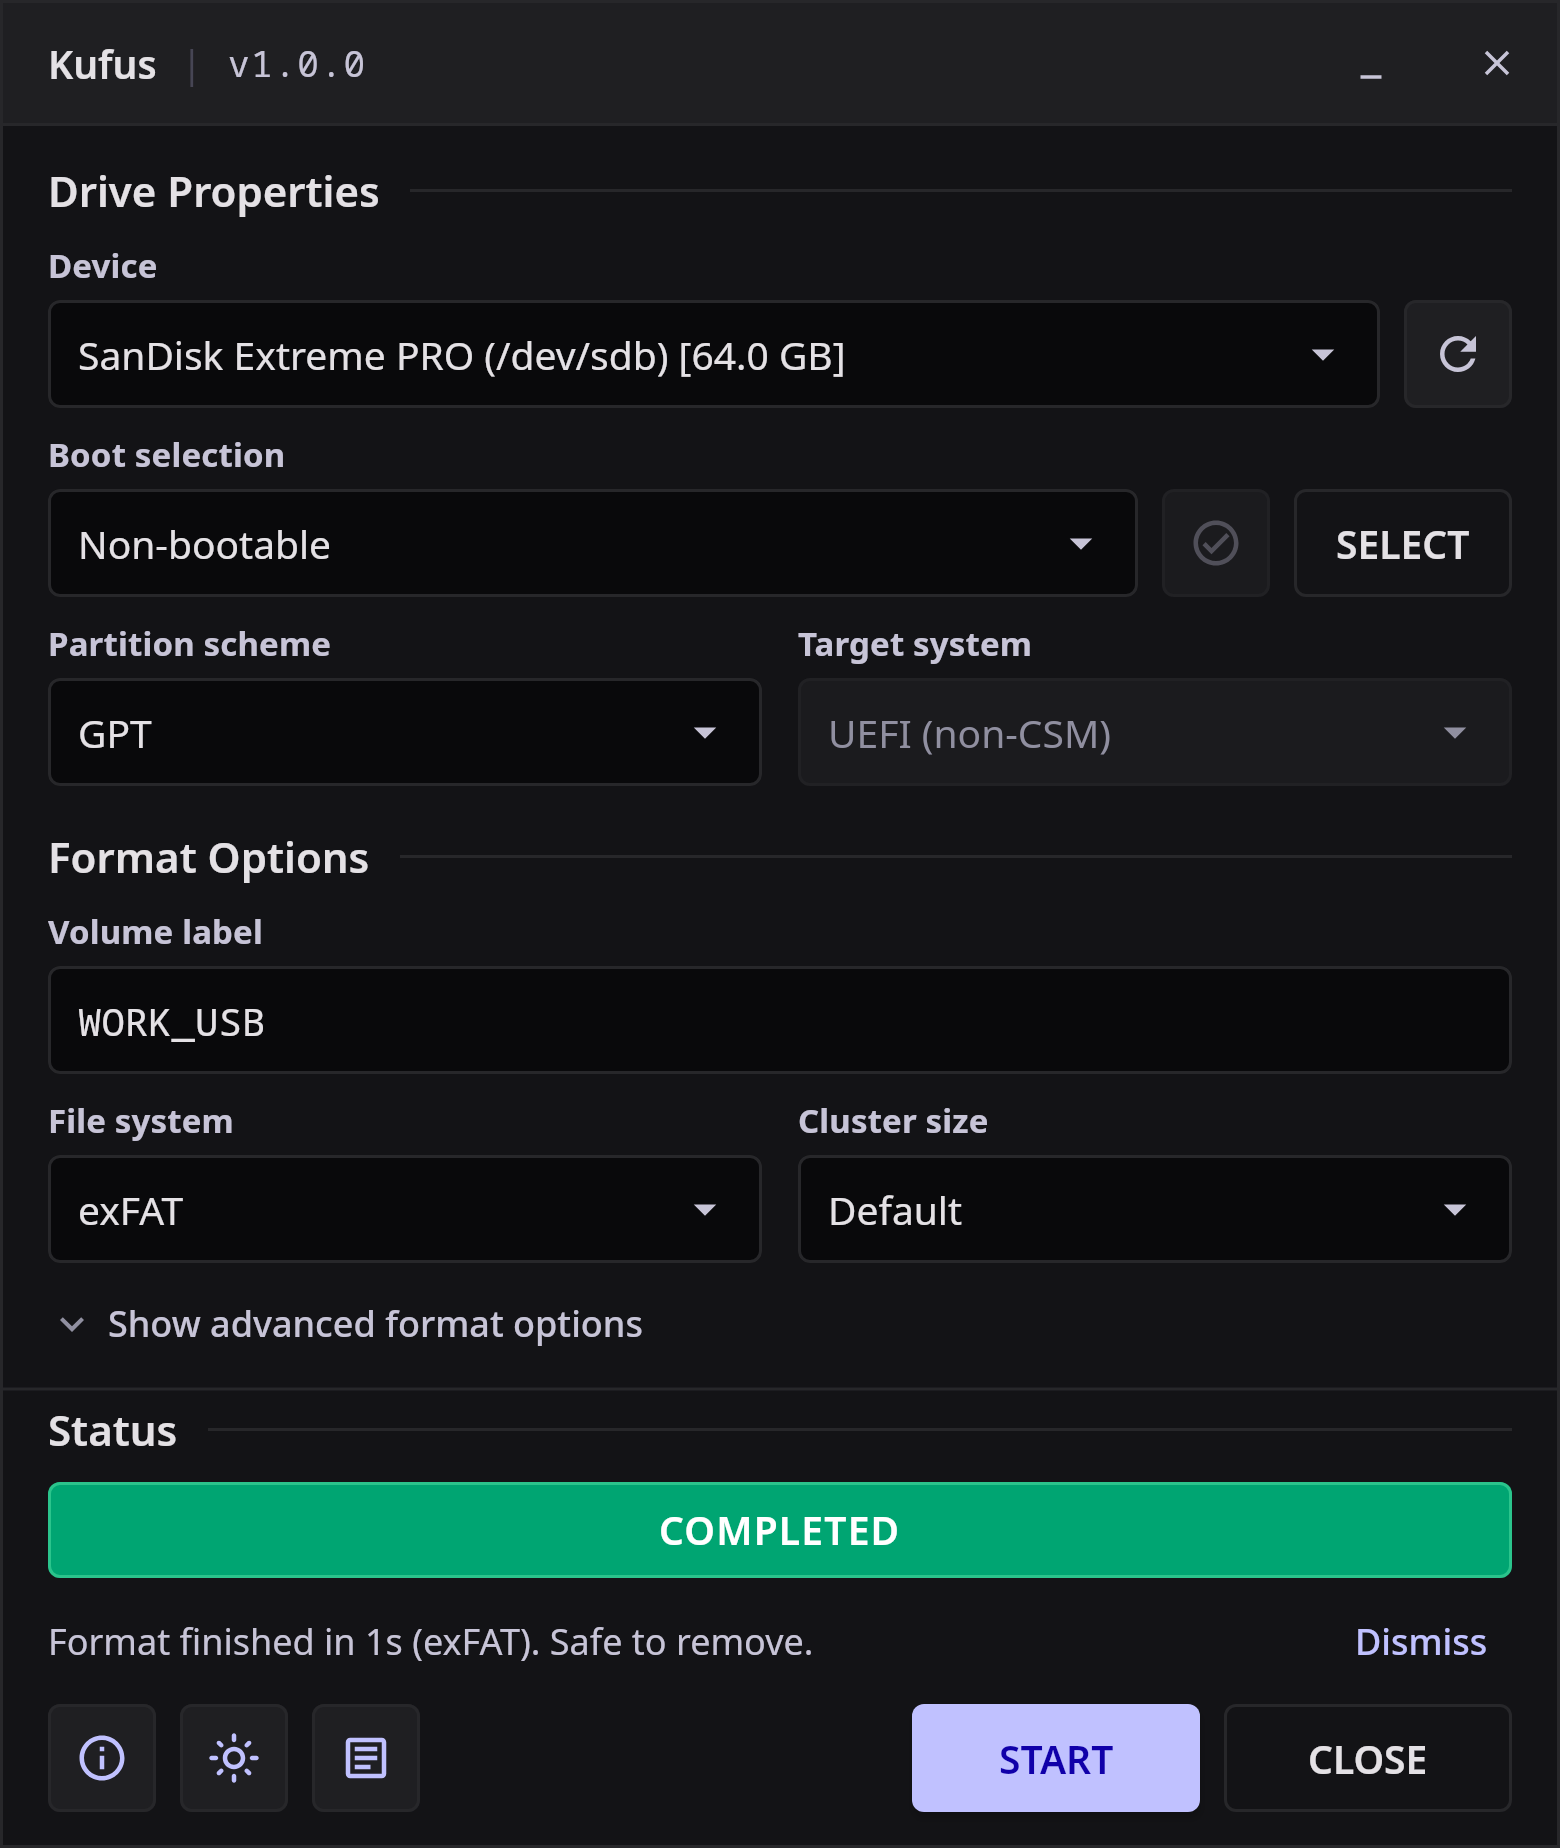
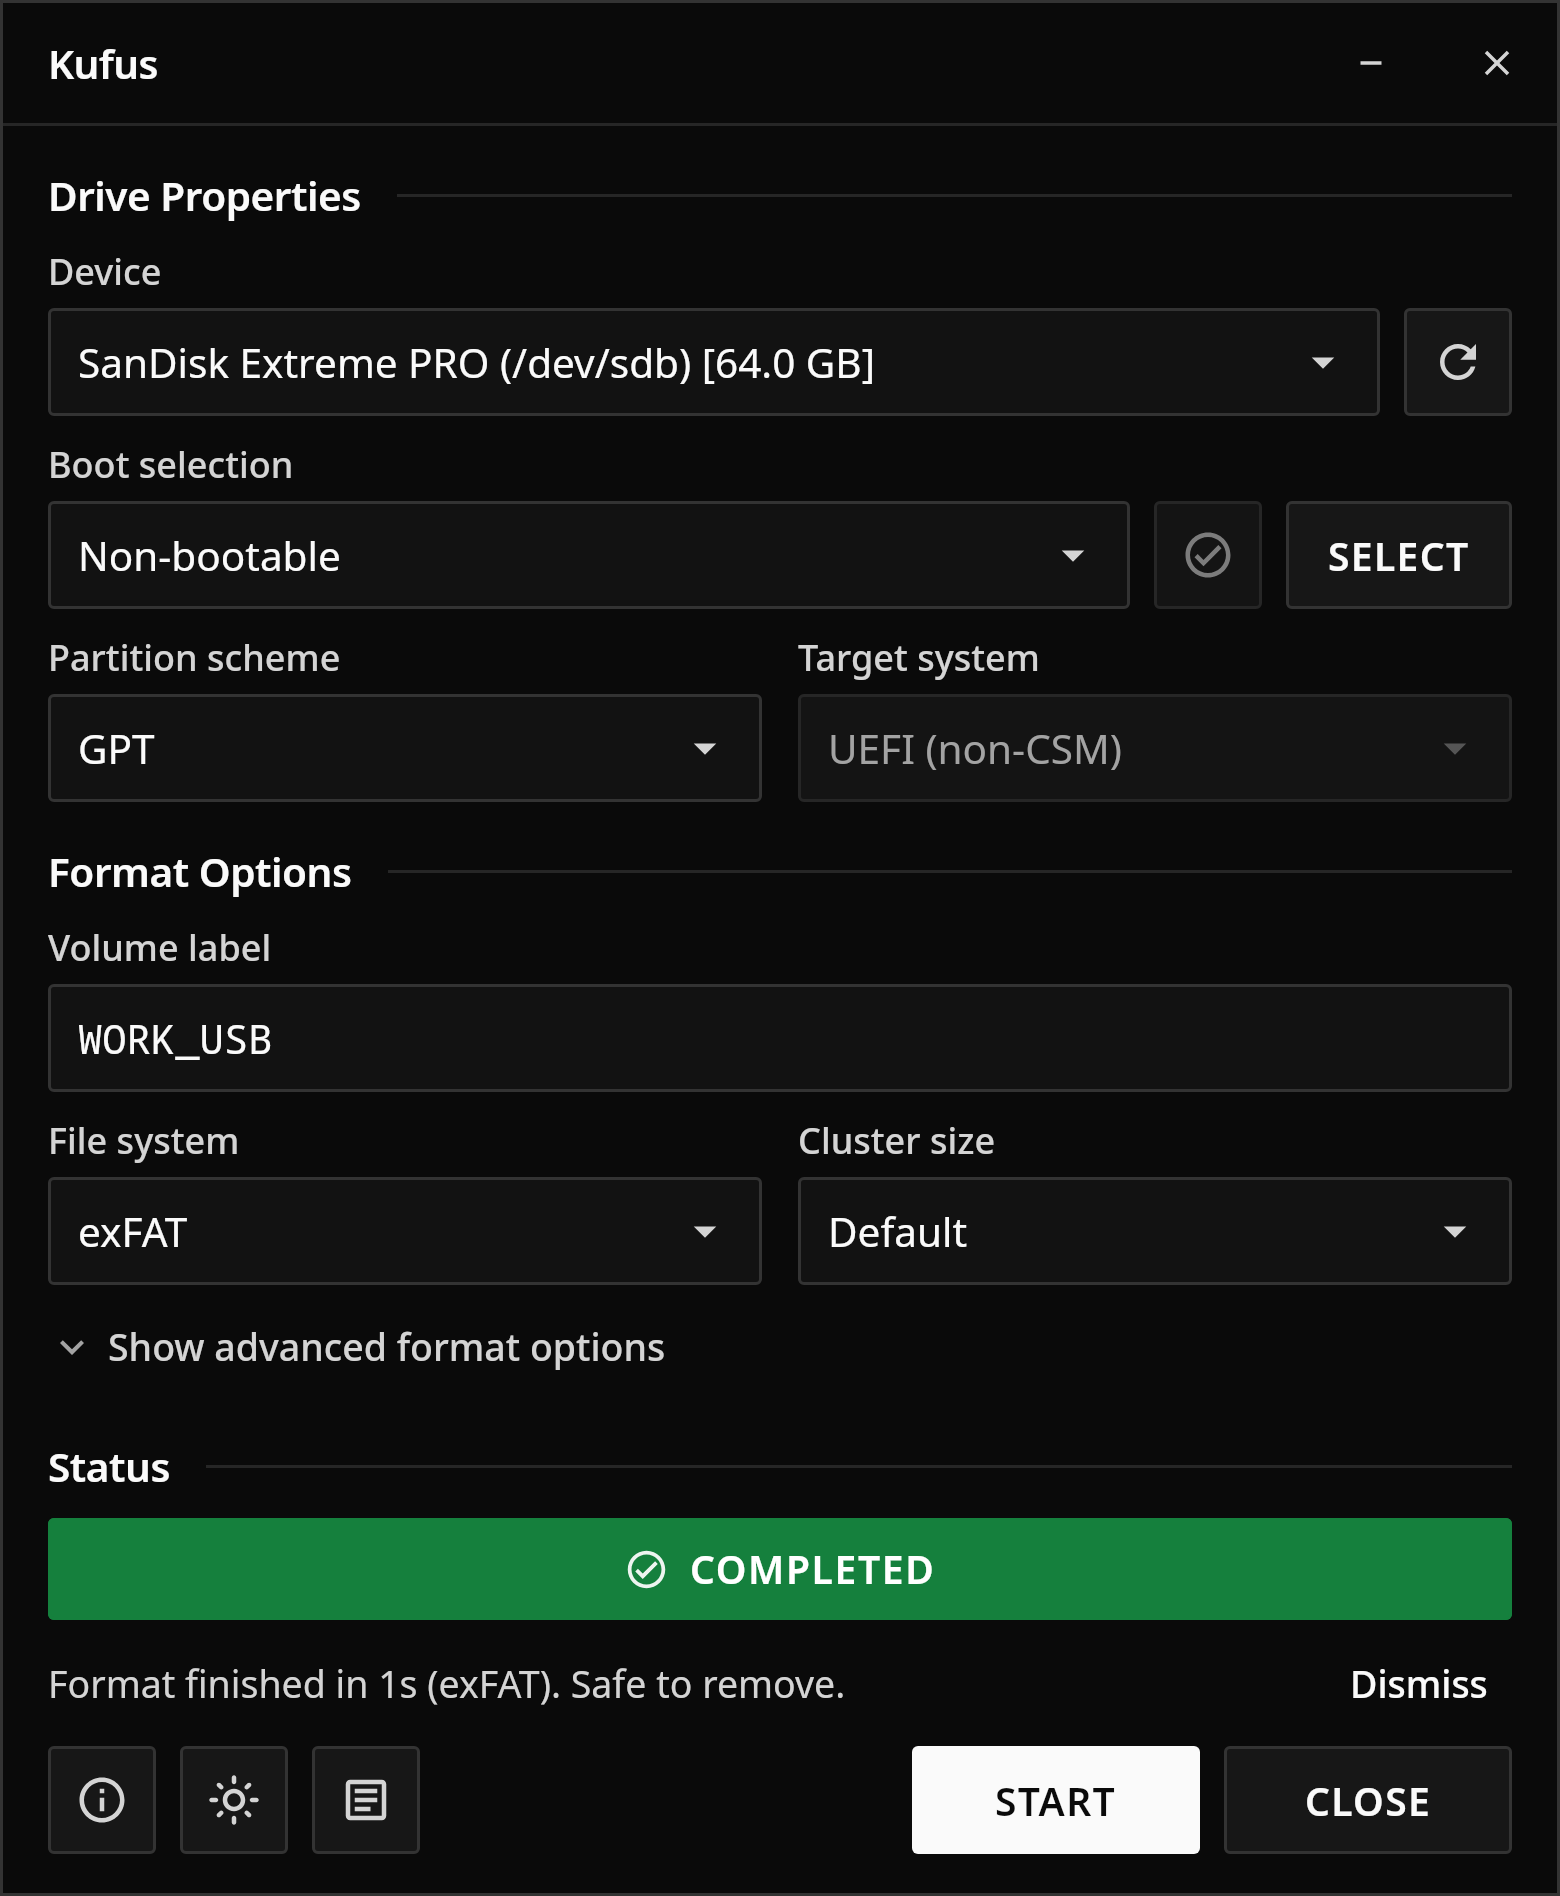
docs: regenerate 3x HiDPI showcase screenshots for neutral theme

diff --git a/shared/src/jvmTest/kotlin/io/github/drlacheheb/kufus/ui/flasher/ScreenshotGenerator.kt b/shared/src/jvmTest/kotlin/io/github/drlacheheb/kufus/ui/flasher/ScreenshotGenerator.kt
@@ -84,13 +84,13 @@ private fun measurePreferredHeightDp(spec: ScreenshotSpec): Int {
     var preferredDp = FALLBACK_HEIGHT_DP
     val probeScene =
         ImageComposeScene(
-            width = WINDOW_WIDTH_DP,
-            height = 900,
-            density = Density(1f),
+            width = (WINDOW_WIDTH_DP * HIDPI_SCALE).toInt(),
+            height = (900 * HIDPI_SCALE).toInt(),
+            density = Density(HIDPI_SCALE),
         ) {
             RenderShowcaseWindow(
                 spec = spec,
-                onMeasuredHeight = { heightDp -> preferredDp = ceil(heightDp).toInt() },
+                onMeasuredHeight = { heightDp -> preferredDp = ceil(heightDp).toInt() + 2 },
             )
         }
     try {
